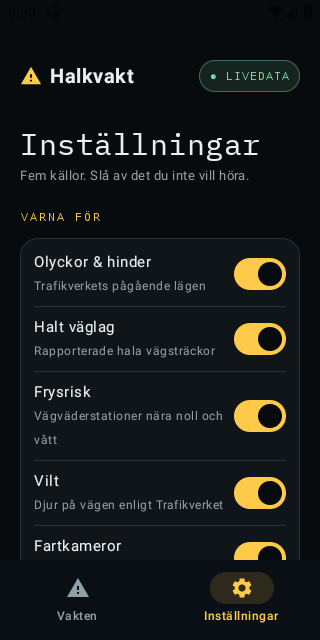
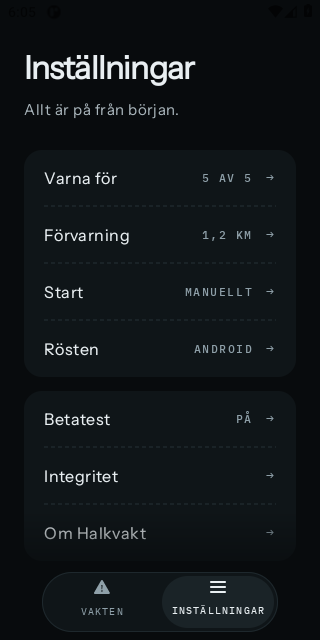
Produktboken och appsidan i skinnet v4, nya skärmbilder, tavlan och STATUS (kort #284, DECISIONS #443)
- PRODUKTBOK: Skinnet v4 (Redo, Redo efter tur, På vakt, gammal data, varningskorten A–L, ikonerna,
  inställningarna i två nivåer), introduktionen (iOS), Autostart och Senast sagt; Android-bilder ur
  fotostudion 37044258124 (Redo, Inställningar, Varna för, Förvarning, Betatest, Om)
- docs/APPEN.html: remsan, Skärmarna och Start och stopp — artefakten republiceras från ägarens konto
- TAVLA kort #284: byggt, kvar iOS-bygget i Xcode, republiceringen och Androids introduktion
- STATUS: sessionsraden

Claude-Session: https://claude.ai/code/session_01Qqa1rj6uLjgVrJ1fEUwLaM

diff --git a/docs/APPEN.html b/docs/APPEN.html
@@ -108,14 +108,15 @@
     <span>gratis i båda butikerna</span>
   </div>
 
-  <div class="remsa" aria-label="Skärmbilder ur Android-appen, 26 september 2026">
-    <figure><img src="produktbok/shot-1-vakten.png" alt="Efter resan: en varning med knapparna Stämde och Stämde inte, och en markerad miss med valen Halka, Vatten, Vilt, Olycka och Annat."><figcaption><b>Efter resan.</b> Svar på varningen och val för en miss.</figcaption></figure>
-    <figure><img src="produktbok/shot-2-installningar.png" alt="Inställningar: fem brytare under Varna för, alla på."><figcaption><b>Varna för.</b> Fem faror, var och en kan stängas av.</figcaption></figure>
-    <figure><img src="produktbok/shot-3-reglaget.png" alt="Rösten: reglaget Längsta förvarning på 1,2 km och knappen Testa rösten."><figcaption><b>Rösten.</b> Förvarningen kan kortas, aldrig förlängas.</figcaption></figure>
-    <figure><img src="produktbok/shot-6-betatest.png" alt="Betatest: brytaren Svara på varningarna med texten om vad som skickas."><figcaption><b>Betatest.</b> Av från början. Texten säger vad som skickas.</figcaption></figure>
-    <figure><img src="produktbok/shot-7-om.png" alt="Om Halkvakt: löftet att positionen inte lämnar telefonen av sig själv och undantaget för betatestet."><figcaption><b>Om.</b> Löftet och undantaget, ordagrant.</figcaption></figure>
+  <div class="remsa" aria-label="Skärmbilder ur Android-appen i skinnet v4, 2 oktober 2026">
+    <figure><img src="produktbok/shot-1-vakten.png" alt="Redo med betatestets kort Efter resan överst: en varning med knapparna Stämde och Stämde inte, och en markerad miss med valen Halka, Vatten, Vilt, Olycka och Annat."><figcaption><b>Redo.</b> För betatestare: svar på varningen och val för en miss.</figcaption></figure>
+    <figure><img src="produktbok/shot-2-installningar.png" alt="Inställningar i två nivåer: Varna för 5 av 5, Förvarning 1,2 km, Start, Rösten, Betatest, Integritet och Om Halkvakt."><figcaption><b>Inställningar.</b> En rad per ämne, varje rad öppnar en egen sida.</figcaption></figure>
+    <figure><img src="produktbok/shot-3-varna-for.png" alt="Varna för: fem rutor med grön prick PÅ, en per fara."><figcaption><b>Varna för.</b> Fem faror, var och en kan stängas av.</figcaption></figure>
+    <figure><img src="produktbok/shot-4-forvarning.png" alt="Förvarning: tre val, 400 m, 800 m och 1,2 km som standard."><figcaption><b>Förvarning.</b> Kan kortas, aldrig förlängas.</figcaption></figure>
+    <figure><img src="produktbok/shot-6-betatest.png" alt="Betatest: vippan Svara på varningarna och kvittot över vad som skickas, vid missad och aldrig."><figcaption><b>Betatest.</b> Av från början. Kvittot säger vad som skickas.</figcaption></figure>
+    <figure><img src="produktbok/shot-7-om.png" alt="Om Halkvakt: livekartan, frågorna, pressmaterialet, ärlighetsraden och datakällorna."><figcaption><b>Om.</b> Ärlighetsraden och källorna, ordagrant.</figcaption></figure>
   </div>
-  <p class="litet">Android ur fotostudion 26/9, som fotar skärmarna automatiskt vid varje bygge. iPhone har samma funktioner i ett något annat skinn.</p>
+  <p class="litet">Android ur fotostudion 2/10 i skinnet v4 — designöverlämningen v2 (DECISIONS #443, kort #284), på grenen till nästa bygge. iPhone har samma skärmar; bilderna kommer ur första bygget i Xcode.</p>
 
   <h2>1. Vad appen är</h2>
   <p>En app du startar när du sätter dig i bilen, och sedan lägger du undan telefonen. Halkvakt lyssnar på Trafikverkets mätstationer och rapporterade väglag och säger till med rösten, i högtalaren eller bilens Bluetooth, när något farligt finns framför dig: halka, frysrisk, olyckor, vilt och fartkameror. Det finns ingen skärm att titta på och inget konto. Tystnad är grundläget: pratar den, betyder det något.</p>
@@ -163,11 +164,11 @@
     <table>
       <thead><tr><th>Skärm</th><th>Vad den visar</th></tr></thead>
       <tbody>
-        <tr><td><b>Vakten</b></td><td>Ett ord, <i>Redo.</i>, och knappen <i>Starta vakten</i>. Under den senast sagda repliken. Android visar också brytaren <i>Autostart</i> och upp till sex faror i närheten.</td></tr>
-        <tr><td><b>Körläget</b></td><td>Ersätter Vakten medan vakten går: resans tid och sträcka, räknare för varningar, halka och vilt, <i>Senast sagt</i>, <i>På din väg</i>, knappen <i>Appen missade</i> och <i>Avsluta vakten</i>.</td></tr>
-        <tr><td><b>Varningskortet</b></td><td>Helgult i åtta sekunder, med samma text som rösten. På iPhone utan knapp, eftersom du inte ska trycka på något i en bil.</td></tr>
-        <tr><td><b>Inställningar</b></td><td>Fem brytare under <i>Varna för</i>, alla på från början. Reglaget <i>Längsta förvarning</i> 400–1 200 m, som kan korta men aldrig förlänga förvarningen. Brytaren <i>Svara på varningarna</i>, av från början.</td></tr>
-        <tr><td><b>Om</b></td><td>Sista avsnittet i Inställningar: löftet, undantaget för betatestet ordagrant, ärlighetsraden <q>mellan stationerna är vägen oövervakad</q> och datakällorna.</td></tr>
+        <tr><td><b>Vakten</b></td><td><i>Redo.</i> och den gula knappen <i>Starta vakten</i>. Efter en tur ett kvitto: varje varning med klockslag och det rösten sa, tills nästa tur. Betatestare ser kortet <i>Efter resan</i> överst.</td></tr>
+        <tr><td><b>Körläget</b></td><td>Ersätter Vakten medan vakten går: resans tid och sträcka, räknare för varningar, halka och vilt, <i>Tyst så länge</i> eller <i>Senast sagt</i>, <i>På din väg</i>, <i>Appen missade något</i> (betatestare) och <i>Avsluta vakten</i>. Är vägdatan gammal står <i>Väglagsdata · gammal</i> där, utan gult.</td></tr>
+        <tr><td><b>Varningskortet</b></td><td>Helgult i åtta sekunder medan rösten talar, utan knapp på båda plattformarna. Rubrik, avstånd som rösten sa det, vägskylt, hastighetsskylt och för allvarliga olyckor läget och ett råd. Kortet visar aldrig ett tal som rösten inte sa.</td></tr>
+        <tr><td><b>Inställningar</b></td><td>Två nivåer: <i>Varna för</i> (fem faror, alla på), <i>Förvarning</i> (400 m, 800 m eller 1,2 km, som kan korta men aldrig förlänga), <i>Start</i>, <i>Rösten</i>, <i>Betatest</i> (av från början), <i>Integritet</i> och <i>Om Halkvakt</i>.</td></tr>
+        <tr><td><b>Om</b></td><td>Egen sida under Inställningar: livekartan, frågorna, ärlighetsraden <q>mellan stationerna är vägen oövervakad</q> och datakällorna. Löftet och undantaget för betatestet står under <i>Integritet</i>.</td></tr>
       </tbody>
     </table>
   </div>
@@ -179,7 +180,7 @@
       <h3>iPhone</h3>
       <ul>
         <li>Med platsen <b>Alltid</b> ber appen iOS väcka den när telefonen lämnar platsen där bilen stod (150 m). Den startar vakten vid 15 km/h.</li>
-        <li><q>Hej Siri, starta Halkvakt</q>, eller en automation i Genvägar för CarPlay, bilens Bluetooth eller fokusläget Kör. Guiden i appen visar bara de steg som gäller din bil.</li>
+        <li><q>Hej Siri, starta Halkvakt</q>, eller en automation i Genvägar för CarPlay, bilens Bluetooth eller fokusläget Kör. Guiden under Inställningar → Start visar två spår i fyra steg och bekräftar när en automation har startat vakten.</li>
         <li>Vakten stannar när bilen stått still en kvart. En paus kortare än tre timmar räknas som samma resa.</li>
         <li>Provad på Malmö–Boden och tillbaka 1–2/9: 100 mil med självväckningen som enda start.</li>
       </ul>
@@ -187,7 +188,7 @@
     <div class="ruta gron">
       <h3>Android</h3>
       <ul>
-        <li>Brytaren <b>Autostart</b> ber om plats, rörelseigenkänning, Bluetooth och plats <i>hela tiden</i>.</li>
+        <li>Vippan <b>Vaknar själv när du kör</b> under Inställningar → Start (före skinnet v4: brytaren <i>Autostart</i> på hemskärmen) ber om plats, rörelseigenkänning, Bluetooth och plats <i>hela tiden</i>.</li>
         <li>Appen lär sig varje Bluetooth-enhet som kopplas medan vakten går och startar vakten när den kopplar upp igen. Rörelseigenkänningen täcker bilar utan Bluetooth.</li>
         <li>En självstartad vakt stannar när bilen kopplas från. Varje vakt ska stanna efter en kvart stilla. Det fungerar inte fullt ut i dag, se avsnitt 9.</li>
       </ul>

diff --git a/docs/PRODUKTBOK.md b/docs/PRODUKTBOK.md
@@ -23,17 +23,17 @@ grundläget — pratar den, betyder det något.
 
 ## Så ser den ut
 
-| Vakten | Inställningar | Rösten och längsta förvarning |
+| Redo — med betatestets *Efter resan* överst | Inställningar | Varna för |
 |---|---|---|
-| ![Vakten](produktbok/shot-1-vakten.png) | ![Inställningar](produktbok/shot-2-installningar.png) | ![Reglaget](produktbok/shot-3-reglaget.png) |
+| ![Vakten](produktbok/shot-1-vakten.png) | ![Inställningar](produktbok/shot-2-installningar.png) | ![Varna för](produktbok/shot-3-varna-for.png) |
 
-| Betatest och början av Om | Resten av Om — ärlighetsraden och källorna |
-|---|---|
-| ![Om](produktbok/shot-6-betatest.png) | ![Om, slutet](produktbok/shot-7-om.png) |
+| Förvarning | Betatest | Om Halkvakt |
+|---|---|---|
+| ![Förvarning](produktbok/shot-4-forvarning.png) | ![Betatest](produktbok/shot-6-betatest.png) | ![Om](produktbok/shot-7-om.png) |
 
-*(Android ur fotostudion 26/9, android.yml 36224807598 på kort #203:s gren — *Vakten* visar kortet *Efter resan* med en varning och en miss, *Inställningar* reglaget *Längsta förvarning* 400–1 200 m och brytarens text om missarna, och Om-sidans ärlighetsrad.)*
-säger "Fartkamera om 500 meter.". Två flikar: Om är sista avsnittet i Inställningar — bilden visar slutet av
-Inställningar med betatest-brytaren, som fotostudion slagit på, och början av Om.)*
+*(Android i skinnet v4 ur fotostudion 2/10, android.yml 37044258124 på grenen `design-v2-skinn` (PR #698) — betatestet påslaget,
+en påhittad resa med en varning och en miss, så *Redo* visar kortet *Efter resan* överst. iOS-bilderna kommer ur första bygget i
+Xcode: inget CI-flöde kompilerar iOS app-målet.)*
 
 ### Facitknappen (betatestet, S4 — Android 16/9)
 
@@ -43,108 +43,125 @@ Inställningar med betatest-brytaren, som fotostudion slagit på, och början av
 
 *(Fotostudion 26/9, en påhittad resa: varningen *"Fartkamera om femhundra meter"* och en miss markerad fem minuter tidigare. Knapparna syns bara när betatestet är påslaget och varningen bär ett id; missen skickas först när ett av de fem valen är gjort.)*
 
-## Skinnet (v3, iOS 0.3.3 →)
+## Skinnet (v4 — designöverlämningen v2, 2/10, kort #284)
 
-Ritat om från grunden 31/8 och portat till iOS samma kväll. Mörkt, tyst, ett ord i taget. Beskrivningen är iOS;
-Android bär samma färger, typsnitt och hemskärmsord men skiljer sig på punkterna under *Android i dag*.
+Ritat om 2/10 (DECISIONS #443) och byggt samma kväll på **båda plattformarna, lika** — avviker Android från iOS är
+det en bugg. Mörkt, tyst, Instrument Sans för text och IBM Plex Mono i versaler för etiketter, tal och avstånd.
+**Gult betyder bara två saker:** en knapp som gör något, och varningen. **Grönt betyder på:** vippor, bockar, *PÅ*, *REDO*.
+Logotypen är triangeln med utropstecknet urstansat; *v3*:s skinn (31/8) och dess ikoner är ersatta.
 
-**Hemskärmen säger ett ord: "Redo."** — i stort, i Instrument Sans. Under det en grön knapp,
-*Starta vakten*. Ingen karta, inga siffror att tolka. Under knappen ett litet kvitto:
-*"Ingen tur än."*, *"Senast sagt · ”…”"* eller, efter en självväckning, *"Senaste tur · 24 sep. 07:14,
-38 min, vaknade själv"* — självväckningens spår (se nedan).
+**Toppraden** bär logotypen i mitten och läget till höger med ett ljus som andas: *LIVE* med gult ljus när vakten väntar,
+*PÅ* med grönt när den kör. **Två flikar** i en flytande kapsel längst ner — *Vakten* och *Inställningar*. Ingen flikrad
+medan vakten kör.
 
-**Körläget:** *PÅ VAKT* i grönt, resan i siffror (*"42 min · 38 km"*), tre räknare
-(varningar, halka, vilt), en gul panel *Senast sagt* när rösten har talat (annars *"Tyst så länge"*),
-och listan *På din väg* med de tre närmaste — med vägdatans klockslag till höger om rubriken (*väglag 14:30*), som på Android;
-flyttar det sig under resan har appen hämtat ny vägdata (var 30:e minut, kort #258; raden tillbaka i (21), 2/10). Längst ner en konturknapp *Avsluta vakten*. Håll fingret
-på *PÅ VAKT* en halv sekund så visas ett demo-varningskort (*"Halt väglag om två kilometer."*) — så du
-kan se hur det ser ut utan att vänta på is.
+**01 Redo.** En 3D-sockel med logotypen, ordet *"Redo."*, raden *"Vakten vaknar själv när du kör. Din position lämnar
+inte telefonen av sig själv."* (första meningen bara när vakten kan vakna själv), källorna i mono
+(*HALKA · VILT · OLYCKOR · FRYSRISK · KAMEROR* — en avslagen källa står inte med), den gula knappen ▶ *Starta vakten* och
+under den *INGEN TUR ÄN*.
 
-**Varningskortet:** helgult. Överst triangeln — Halkvakts märke, aldrig farans ikon.
-Under den farans namn i 64 punkter med farans egen ikon intill, avståndet i monospace,
-rösten i kursiv, och en stapel som fylls under åtta sekunder. **Ingen knapp** — du ska
-inte trycka på något i en bil.
+**01b Redo efter tur.** Efter en tur med minst en varning byts sockeln mot ett **kvitto**: *SENASTE TUREN*, tiden och
+sträckan (*16:58–17:34 · 36 MIN · 31 KM*) och en rad per varning — klockslag, ikon, rubrik och exakt vad rösten sa.
+Under: *3 VARNINGAR · VISAS TILLS NÄSTA TUR*. En tur utan varningar ger tillbaka 01.
+**Betatestare** ser dessutom kortet *Efter resan* överst, som förut (kort #203) — designen visar det inte, men det står kvar.
 
-**Ikonsetet:** fem faror, fem former, en linje. *Halt väglag* är bilen som tappar greppet
-(vågspåren redan gjorda — det ÄR halt). *Frysrisk* är termometer och iskristall (det KAN
-bli halt). *Olycka* är samma bilkropp med en islagsstjärna. *Vilt* är ett hjorthuvud
-framifrån, hornen bär igenkänningen. *Fartkamera* är en låda på stolpe, den enda på stolpe.
-Samma fem ritningar finns i Android-koden, men där visas de ännu inte på någon skärm.
+**02 På vakt.** En panel med *● PÅ VAKT* i grönt, minuter och kilometer i stort, och tre räknare (varningar, halka,
+vilt). Under den en streckad ruta: *"Tyst så länge — Inget på din väg än. Du hör det direkt när något dyker upp."*,
+eller *Senast sagt · HH:MM* med repliken när rösten har talat. Sedan *PÅ DIN VÄG* med de tre närmaste farorna (ikon,
+avstånd, fara, väg) och vägdatans klockslag till höger om rubriken. Längst ner *APPEN MISSADE NÅGOT* (betatestare) och
+den neutrala knappen *Avsluta vakten*. Håll fingret på *PÅ VAKT* en halv sekund så visas kort B, halkkortet, med
+motorns riktiga replik — så att granskaren ser ett varningskort utan att köra.
 
-**Två flikar, inte tre.** Om-innehållet — löftet, ärlighetsraden, dataattributionen — är
-sista avsnittet i Inställningar. Inget att leta efter, inget att missa.
+**Gammal väglagsdata (M och N).** När vägdatan är för gammal säger rösten en gång per tur *"Ingen färsk väglagsdata – kör
+som om det kan vara halt."* **Inget gult kort** — gult betyder en fara framför dig. I stället glider en mörk rad in överst
+i åtta sekunder med repliken (M), och resten av turen står *VÄGLAGSDATA · GAMMAL — "Kör som om det kan vara halt." —
+SENAST FÄRSK 14:05* där *Tyst så länge* annars står (N). Ljuset förblir grönt; vakten är på. Ingen banner över kartappen.
 
-**Android i dag** (fotostudion 23/9 och koden på main):
-- Hemskärmen har *Redo.* och *Starta vakten*, och direkt under knappen brytaren *Autostart* — men inget
-  kvitto. Under den står *Senast sagt* med datum och tid, och avsnittet *I närheten*: upp till sex faror
-  inom 60 km, sorterade på avstånd, med väglagets klockslag.
-- Körlägets rubrik är *PASSAGERAREN ÄR VAKEN*, panelen *Senast sagt* är mörk med gul kant, och det finns
-  inget demokort.
-- Varningskortet är helgult men har rubriken *HALKVAKT VARNAR* i stället för triangeln, ingen ikon, rösten
-  utan kursiv och ingen stapel — och en knapp, *Uppfattat*. Kortet stänger sig självt efter åtta sekunder.
-- Statuspillen överst säger *LIVEDATA* i vila och *VAKTEN PÅ* under körning. På iOS säger den
-  *Trafikverket live* (eller *Hämtar*) och *Vakten på*.
+**Varningskortet** — helgult i åtta sekunder medan rösten talar, sedan bort av sig självt. **Ingen knapp på någon
+plattform** (Androids *Uppfattat* är borta). Samma ordning varje gång: *HALKVAKT VARNAR* och klockslaget, för allvarliga
+olyckor en mörk lägesetikett (*ALLVARLIG · TIDIGT*, *PÅMINNELSE*, *ALLVARLIG · SENT*), farans ikon, rubriken, avståndet,
+eventuellt en vägskylt (*E18*, *VÄG 25*) och en hastighetsskylt (*80*), för allvarliga olyckor en mörk rådruta
+(*Överväg annan väg* med *STOR PÅVERKAN · RÖJD CA 19:30*, eller *Sakta ner*), repliken ordagrant och en stapel som fylls.
+**Kortet visar det rösten sa och inget mer:** under en kilometer i hela hundratal (*500 M*, *600 M*), annars hela
+kilometer (*3 KM*), och för halka, vilt och väderstationer ord i stället för tal (*FRAMFÖR DIG*, *FRAMÖVER*). Talet står
+still i åtta sekunder. Kommer en viktigare fara inom tio sekunder glider ett nytt kort upp och täcker det gamla, som
+krymper och tonar bort; stapeln börjar om.
 
-## Första gången (2 minuter) — introduktionen (iOS)
+| Kort | Rubrik | Avstånd | Extra |
+|---|---|---|---|
+| Olycka | *Olycka* | *3 KM* | vägskylt när Trafikverket anger väg |
+| Allvarlig olycka, tidigt rop | *Allvarlig olycka* | *8 KM* | *ALLVARLIG · TIDIGT*, vägskylt, *Överväg annan väg* (+ röjningstid) |
+| Allvarlig olycka, påminnelse | *Sakta ner* — *Olycksplats strax framför dig* | *STRAX FRAMFÖR* | *PÅMINNELSE* |
+| Allvarlig olycka, sent | *Allvarlig olycka* | *2 KM* | *ALLVARLIG · SENT*, vägskylt, *Sakta ner* |
+| Halka | *Halka* | *FRAMFÖR DIG* | — |
+| Frysrisk vid station | *Frysrisk* — *Vägbanan nära noll grader* | *FRAMÖVER* | — |
+| Frysrisk på bro | *Frysrisk* — *Bro* | *600 M* (hundratal, som rösten) | egen ikon |
+| Vilt | *Vilt* | *FRAMÖVER* | — |
+| Fartkamera | *Fartkamera* | *500 M* | hastighetsskylt när gränsen är känd |
 
-Fyra sidor, helskärm, en gång. Allt går att hoppa över och ändra senare, och *Visa introduktionen igen*
-finns i Inställningar, ovanför Betatest och Om.
+Kortets innehåll räknas i motorpaketen (`WarningCard` i Swift och Kotlin) och prövas av CI med samma fall på båda
+plattformarna; olycksläget kommer ur motorn (`Alert.step`, DECISIONS #442).
 
-1. **Löftet** — vad Halkvakt gör, och ordagrant: *"Din position lämnar inte telefonen av sig själv. Vi samlar in:
-   ingenting — om du inte själv slår på betatestets facit i Inställningar."*
-2. **Platsen** — *Tillåt plats* ber om "Vid användning", som räcker för att rösten ska tala med släckt skärm.
-   På samma sida ber knappen *Tillåt Alltid* sedan om "Alltid", som behövs för att vakten ska starta av sig
-   själv. Har du bara gett "Vid användning" frågar appen igen när du startar vakten. Kommer ingen fråga visar
-   sidan vägen: *Inställningar → Halkvakt → Plats → Alltid*.
+**Ikonerna:** sex, en linjetjocklek, rundade ändar: *olycka* (en avspärrningsbock), *halka* (bilen bakifrån med två
+slirspår), *frysrisk* (en snöflinga), *bro* (en valvbro med en liten flinga — ny), *vilt* (en älg, den enda fyllda formen)
+och *fartkamera* (en låda på stolpe med blixtlinjer). Svarta på kortet, ljusa i listorna.
+
+**Inställningar i två nivåer.** Överst *"Inställningar — Allt är på från början."* och två paneler med rader som
+öppnar en egen sida (som glider in från höger, med *← INSTÄLLNINGAR* för att gå tillbaka):
+- *Varna för* (*5 AV 5*) — fem rutor, tryck var som helst för att slå av och på: grön prick *PÅ*, grå *AV*.
+- *Förvarning* (*1,2 KM*) — tre val: *400 m Kortast*, *800 m Mellan*, *1,2 km Fullt — standard*. *"Rösten varnar ungefär
+  30 sekunder före. Du kan korta det, aldrig förlänga."* (Det steglösa reglaget är borta.)
+- *Start* (*SJÄLV*) — vippan *Vaknar själv när du kör*, *ELLER SÄG "Hej Siri, starta Halkvakt"* och
+  *STOPPAR SJÄLV EFTER 15 MIN PARKERAD*. På iOS dessutom *Starta med Genvägar (valfritt)* i två spår — med CarPlay eller
+  Bluetooth, och utan (fokus *Kör*) — fyra steg vardera, knappen *Öppna Genvägar* och, när en automation har startat
+  vakten, *FUNGERAR — STARTAD SENAST …*. (Den gamla guiden med frågan om bilkopplingen är borta.)
+- *Rösten* — var rösten byts i systemet och den gula knappen *Testa rösten*, som säger en riktig motorreplik:
+  *"Fartkamera om 500 meter. Gränsen är 80."*
+- *Betatest* (*PÅ/AV*) — vippan *Svara på varningarna* och kvittot *VAD SKICKAS*: *Skickas* varningens id, klockslag,
+  ditt svar · *Vid missad* klockslag, närmaste mätstation, vad det var · *Aldrig* konto, resa, position. *"Ett varnings-id
+  pekar på en fara på kartan, så vi ser ungefär var du var just då. Appens namn och version följer med. Bara för
+  betatestare."*
+- *Integritet* — löftet: *"Din position lämnar inte telefonen av sig själv."* och *"All matchning mot vägdata sker lokalt
+  i appen. Inget konto, ingen spårning. Undantaget är betatestet — bara om du själv slår på det."*, raden till Betatest
+  och Integritetspolicyn.
+- *Visa introduktionen igen* (iOS).
+- *Om Halkvakt* — Livekartan, Om appen & vanliga frågor, Press & material, ärlighetsraden och attributionen
+  (oförändrade), och versionen.
+
+Under panelerna: *LÖFTET — Din position lämnar inte telefonen av sig själv.*
+
+## Första gången — introduktionen (iOS)
+
+Fyra sidor med punkter längst ner, *HOPPA ÖVER* till vänster och *NÄSTA* / *KLAR* till höger. Allt går att hoppa över och
+ändra senare. Toppraden säger *VAKEN* med gult ljus tills platsen är *Alltid*, sedan *PÅ* med grönt.
+
+1. **Löftet** — logotypen stort, *"Varnar med rösten"*, *"Halka, olyckor, frysrisk, vilt och fartkameror från
+   Trafikverket — i din högtalare, innan du är där."*, sockeln med logotypen, rutan *LÖFTET — "Din position lämnar inte
+   telefonen av sig själv."* och *Testa rösten* (som säger *"Fartkamera om 500 meter. Gränsen är 80."*).
+2. **Platsen** — *"Platsen — bara i telefonen"*, *"Välj Alltid så kan vakten starta själv när du kör."* och en kartnål på
+   sockeln. *Tillåt plats* → iOS egen fråga; sedan den gröna *Tillåt Alltid*. Med Alltid: en grön bock och *"Alltid —
+   vakten vaknar själv när du kör"*, ringarna blir gröna. Avböjer du Alltid: *"Bara när appen är öppen — vakten startar
+   inte själv"* och *ÄNDRA TILL ALLTID*. Nekar du: nålen blir grå, *PLATS · AV — "Utan plats vet vakten inte vad som
+   ligger framför dig."* och *Öppna Inställningar*.
    **iOS egen ruta** säger (ordagrant, `project.yml`): *"Halkvakt jämför din position med
    vägfaror lokalt i telefonen och varnar med rösten, även med släckt skärm under körning.
    Ingen position lämnar telefonen av sig själv — det enda som skickas är betatestets
    facitsvar, som du själv slår på."* Och vid *Alltid*: *"Med "Alltid" startar vakten av sig
    själv när du börjar köra. Matchningen sker lokalt i telefonen — ingen position lämnar den
-   av sig själv."* Skärmbild av rutan kommer ur första bygget som bär texten (0.3.9 (13)).
-3. **Bannern** — *Tillåt notiser*, så att varningen syns över kartappen. En grön bock när det är klart, en gul
-   rad med vägen till Inställningar om du sa nej: rösten talar ändå, bara bannern uteblir.
-4. **Du är klar** — *"Vakten startar av sig själv när du kör, om platsen är Alltid. Inget mer att ställa in."*
-   Vill du starta direkt: knappen i appen, eller *"Hej Siri, starta Halkvakt"* med telefonen i facket.
-   Vakten stoppar sig själv när bilen stått still en kvart. Genvägar nämns inte här; den valfria guiden
-   finns under Inställningar → *Starta direkt (valfritt)*.
+   av sig själv."*
+3. **Bannern** — *"Bannern över kartappen"*, *"Kör du med Google Maps eller Kartor visas rösten som en banner i åtta
+   sekunder."*, en svävande exempelbanner över en liten karta (*FARTKAMERA · 500 M — "Fartkamera om 500 meter. Gränsen är
+   80."*) och *Tillåt notiser*. Påslagna: *Notiser på*. Avslagna: bannern bleknar, *"Rösten varnar ändå — bara utan
+   banner."* och *SLÅ PÅ I INSTÄLLNINGAR*.
+4. **Du är klar** — ett kvitto, inte en manual: *KVITTO* och dagens datum, *START* (*Själv när du kör* / *När appen är
+   öppen* / *Plats saknas*), *DIREKT "Hej Siri, starta Halkvakt"*, *STOPP Efter 15 min parkerad*, *BANNER På* eller *Av —
+   bara röst*, och *STATUS*: *REDO* i grönt, eller *REDO · UTAN BANNER*, *BEGRÄNSAD*, *EJ REDO*. Saknas något:
+   *ÅTGÄRDA I INSTÄLLNINGAR*, som går tillbaka till rätt sida; annars *ALLT GÅR ATT ÄNDRA I INSTÄLLNINGAR*.
 
-Klar. Inga konton, ingen e-post, inga fler frågor.
+Inga konton, ingen e-post, inga fler frågor.
 
-*(Android har ingen introduktion. Första trycket på Starta ber om plats och — på Android 13 och senare —
-notiser. Brytaren Autostart ber om resten: rörelseigenkänning, Bluetooth och plats "Tillåt hela tiden".)*
-
-## Flikarna (två sedan 31/8)
-
-**🛡 Vakten** — hjärtat. En stor knapp startar vakten; under den *Senast sagt* (se nedan). Överst en
-statuspill som visar att datan är levande. På Android står dessutom brytaren *Autostart* och listan
-*I närheten* här.
-
-**🚗 Körläget** — ingen egen flik: det ersätter Vakten medan vakten går. Mörk skärm, resans tid och
-sträcka, tre räknare (varningar, halka, vilt), *Senast sagt*, *På din väg* och *Avsluta vakten*. När
-något händer visas ett **varningskort i 8 sekunder** med samma text som rösten just sa. Byggt för att
-ögonen ska stanna på vägen.
-
-**⚙ Inställningar** — *Varna för*: fem brytare, en per fara (olyckor och hinder, halt väglag, frysrisk,
-vilt, fartkameror), alla på från början; en avslagen fara varnar aldrig. *Längsta förvarning*: rösten
-talar ungefär 30 sekunder före (750 m i 90 km/h, 1 167 m i 140 km/h), och reglaget är ett tak på det —
-400–1 200 m på båda plattformarna, i steg om 100 på iOS och steglöst på Android, 1 200 m från början.
-Det kan korta förvarningen, aldrig förlänga den. *(Före 26/9 hette det "Varna på avstånd" och gick till
-3 km på iOS och 5 km på Android — över fart × 30 s gjorde det ingenting, kort #259.)* Körläget säger
-samma sak: *"Rösten talar ungefär 30 sekunder före, som längst 1,2 km. En olycka längre fram kan nämnas
-tidigare."* På iOS också *Vaknar själv när du kör* (på från
-början) och guiden *Starta direkt (valfritt)*. Och betatestets brytare *Svara på varningarna* — **av
-tills du själv slår på den** — med texten om exakt vad som skickas (se Om).
-
-**ℹ Om** (sista avsnittet i Inställningar) — löftet i klartext, ordagrant som i appen på båda
-plattformarna: *"Din position lämnar inte telefonen av sig själv. All matchning mot vägdata sker lokalt
-i appen. Inget konto, ingen spårning."* Och sedan 16/9 undantaget (Axels krav, DECISIONS #196): *"Undantaget är
-betatestet, om du själv slår på det: då skickas varningens id, klockslag och ditt svar
-(Stämde / Stämde inte), plus appens namn och version — det säger ungefär var du var när rösten talade. Inget annat."*
-(Sedan 24/9, kort #249: texten nämner nu allt svaret bär.)
-Sedan följer ärlighetsraden, på båda plattformarna (Android sedan 24/9, kort #249): *"Varnar vid Trafikverkets mätstationer och rapporterade väglag — mellan
-stationerna är vägen oövervakad."* Och attributionen: Trafikverket (CC0), SMHI, Fintraffic (CC BY 4.0),
-broar © OpenStreetMap-bidragsgivare (ODbL).
+*(Android har ingen introduktion än — designens fyra sidor är inte byggda där. Första trycket på Starta ber om plats och,
+på Android 13 och senare, notiser; vippan *Vaknar själv när du kör* under Inställningar → Start ber om resten:
+rörelseigenkänning, Bluetooth och plats "Tillåt hela tiden".)*
 
 ## Exakt vad rösten säger
 
@@ -388,7 +405,7 @@ Skärmbilder från iOS tas på Axels iPhone eller i simulatorn med fotostudio-kr
 
 ## Autostart i bilen
 
-**Android:** slå på brytaren *Autostart* på hemskärmen. Den ber om fyra behörigheter i tur och ordning:
+**Android:** slå på vippan *Vaknar själv när du kör* under Inställningar → *Start* (före skinnet v4, 2/10, var det brytaren *Autostart* på hemskärmen). Den ber om fyra behörigheter i tur och ordning:
 plats, rörelseigenkänning, Bluetooth och plats *Tillåt hela tiden* (som Android 11 och senare bara ger i
 inställningarna, kort #226). Sedan lär sig appen varje Bluetooth-enhet som kopplas medan vakten går — även
 hörlurar — och startar vakten när en av dem kopplar upp igen. Rörelseigenkänningen startar vakten i bilar
@@ -467,12 +484,11 @@ Säg ja, annars uteblir bannern (rösten talar ändå).
 
 ## Senast sagt
 
-På Android visar hemskärmen den senaste repliken med datum och tid, även när vakten är av. Har rösten
-aldrig behövt säga något står det *"Rösten har inte behövt säga något än."* — tystnad är en funktion.
-På iPhone är det raden under knappen, *"Senast sagt · ”…”"* utan klockslag, och efter en självväckning
-visar raden resan i stället (se Skinnet).
+Sedan skinnet v4 (2/10) lika på båda plattformarna: under körning står *Senast sagt · HH:MM* med repliken i den streckade
+rutan i *På vakt* (*Tyst så länge* innan rösten har talat), och efter turen står varje replik i kvittot på *Redo* (01b)
+tills nästa tur. Den gamla raden under knappen och Androids *Senast sagt* på hemskärmen är borta.
 
-**Facitknappen (betatestet, 16/9):** under repliken två knappar, *Stämde* och *Stämde inte*.
+**Facitknappen (betatestet, 16/9):** för betatestare på Redo, under den senast sagda repliken, två knappar, *Stämde* och *Stämde inte*.
 Ingen fritext — inte i en bil. Svaret sparas i telefonen och skickas när bilen stått stilla en
 halv minut, direkt om vakten är av, eller när appen öppnas; aldrig medan bilen rullar. Det som
 skickas är varningens id, klockslaget, svaret och appens namn och version — inget annat. Knapparna

diff --git a/TAVLA.md b/TAVLA.md
@@ -1922,12 +1922,20 @@ står här finns inte. Kortregeln ersätter möten: allt som bestäms blir ett k
 
 ## 🟡 GÖRA (pågår just nu)
 
-- [ ] 🔨 **#284 APPENS NYA SKINN — DESIGNÖVERLÄMNINGEN V2 (PÅGÅR, Claude, Axels order 2/10 18:46; DECISIONS #442, #443)**: varningskorten
-  A–L med lägesetikett, vägskylt, gränsskylt och rådruta; gammal data M–N; Redo efter tur; På vakt; inställningar i två nivåer; onboarding;
-  sex ikoner; logotypen med "!". iOS och Android lika, Androids "Uppfattat" och källrad bort. Rösten oförändrad.
-  Steg: (1) ✅ motorn bär `Alert.step` (TS grön lokalt, 235 tester; Kotlin/Swift i CI) · (2) varningskortet iOS · (3) varningskortet
-  Android · (4) övriga skärmar · (5) produktboken med nya skärmbilder. **Verify:** ci, ios-engine och android gröna på PR:en; ett
-  iOS-bygge i Axels Xcode visar kort F, G och H vid en allvarlig olycka (inget CI-flöde kompilerar iOS app-målet).
+- [ ] 🔨 **#284 APPENS NYA SKINN — DESIGNÖVERLÄMNINGEN V2 (BYGGT, väntar på iOS-bygge — Claude, Axels order 2/10 18:46; DECISIONS #442, #443, PR #698)**:
+  varningskorten A–L med lägesetikett, vägskylt, gränsskylt och rådruta; gammal data M–N; Redo efter tur; På vakt; inställningar i
+  två nivåer; introduktionen (iOS); sex ikoner; logotypen med "!"; 3D-socklarna renderade ur designens CSS. iOS och Android lika,
+  Androids "Uppfattat" och källrad borta. Rösten oförändrad.
+  ✅ (1) motorn bär `Alert.step` — TS 235 tester, `ios-engine` och `android` gröna på grenen (workflow_dispatch) · ✅ (2) kortets innehåll
+  i `WarningCard` (Swift + Kotlin) med samma tolv fall i båda testsviterna, gröna · ✅ (3) Android: alla skärmar byggda, `android`
+  37044258124 grön, fotostudion visar Redo, Inställningar och fyra undersidor (i produktboken) · ✅ (4) iOS: alla skärmar skrivna och
+  granskade av en fristående läsning (inga kompileringsfel funna; fyndet att körläget inte öppnades från Inställningar-fliken rättat) ·
+  ✅ (5) produktboken och `docs/APPEN.html` omskrivna.
+  **Kvar:** (a) **Axel bygger iOS i Xcode** — inget CI-flöde kompilerar app-målet; kontrollera kort F, G, H (allvarlig olycka) och
+  Redo efter tur, ta iOS-skärmbilderna till produktboken · (b) artefakten *Halkvaktens app* republiceras ur `docs/APPEN.html` från
+  ägarens konto (Bengts; den här sessionen når den inte) — STOMREGELN · (c) Androids introduktion i fyra sidor är inte byggd (Android
+  har trappan i MainActivity; designen förutsätter iOS dialoger) · (d) Kort #219/#280: byggnumret höjs i samma commit som sista
+  ändringen före arkivering. **Verify:** ett iOS-bygge visar kort F/G/H vid en allvarlig olycka och kvittot på Redo efter en tur.
 
 
 ---

diff --git a/STATUS.md b/STATUS.md
@@ -42,6 +42,10 @@ fortsätter. *(Fryst 26/9, kort #221.)*
 - Revoke the unused second PAT (public-read-only one from 2026-08-24) — ej verifierad
 
 ## Session log
+- 2/10 18:46–21:00 (Claude, Axels *"Okay, lets start"*): appens nya skinn ur designöverlämningen v2 på båda plattformarna, PR #698
+  (utkast) — `Alert.step` i tre motorer (DECISIONS #442), varningskorten A–L, gammal data M–N, Redo efter tur, På vakt, inställningar
+  i två nivåer, introduktionen (iOS), logotypen med "!" (DECISIONS #443). `ios-engine` och `android` gröna på grenen; iOS app-målet
+  obyggt till Axels Xcode. Kort #284.
 - 2/10 kväll (Claude, Bengts fråga): Fintraffic läst och jämfört med Halkvakt — `docs/FINTRAFFIC-JAMFORELSE-2026-10-02.md`, kort #283 (fyra förslag, Bengts val). Läs-only.
 - 2/10 kväll (Claude, Bengts frågor): Fintraffic-jämförelsen omskriven till läsbar text med en utvärdering (samma fil, kort #283). Läs-only.
 - 2/10 kväll (Claude, Bengts fråga): *Före resan* utvecklad för pendling och favoritsträckor — `docs/FORE-RESAN-2026-10-02.md`, kort #233 del 1. Beslutsunderlag, ingen kod.
